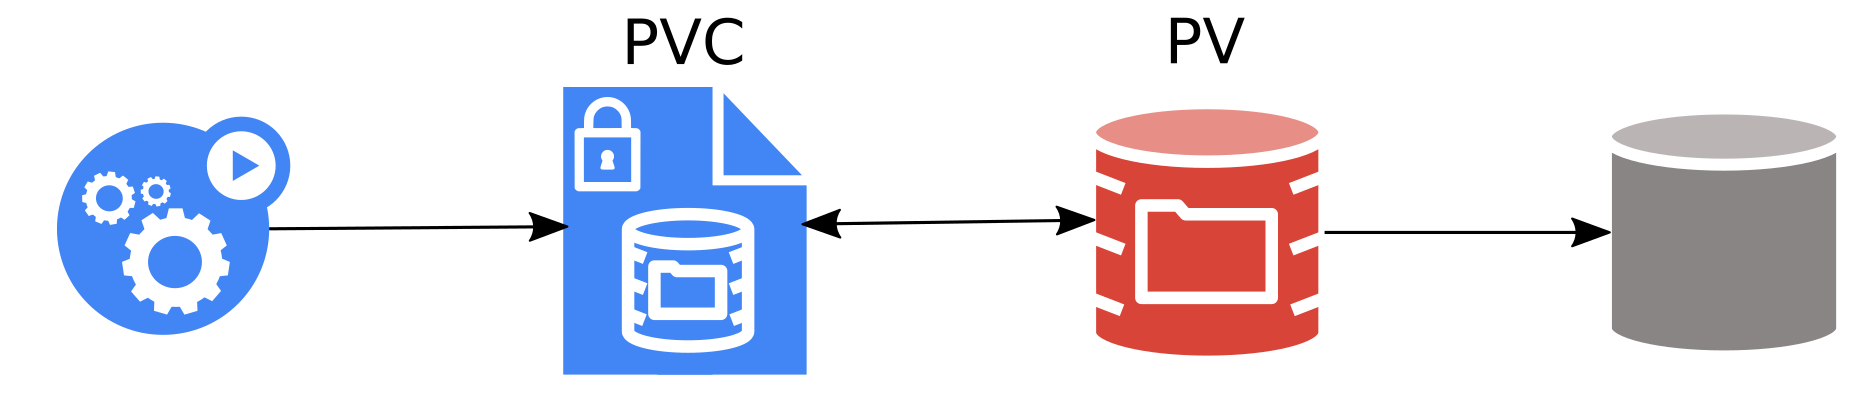
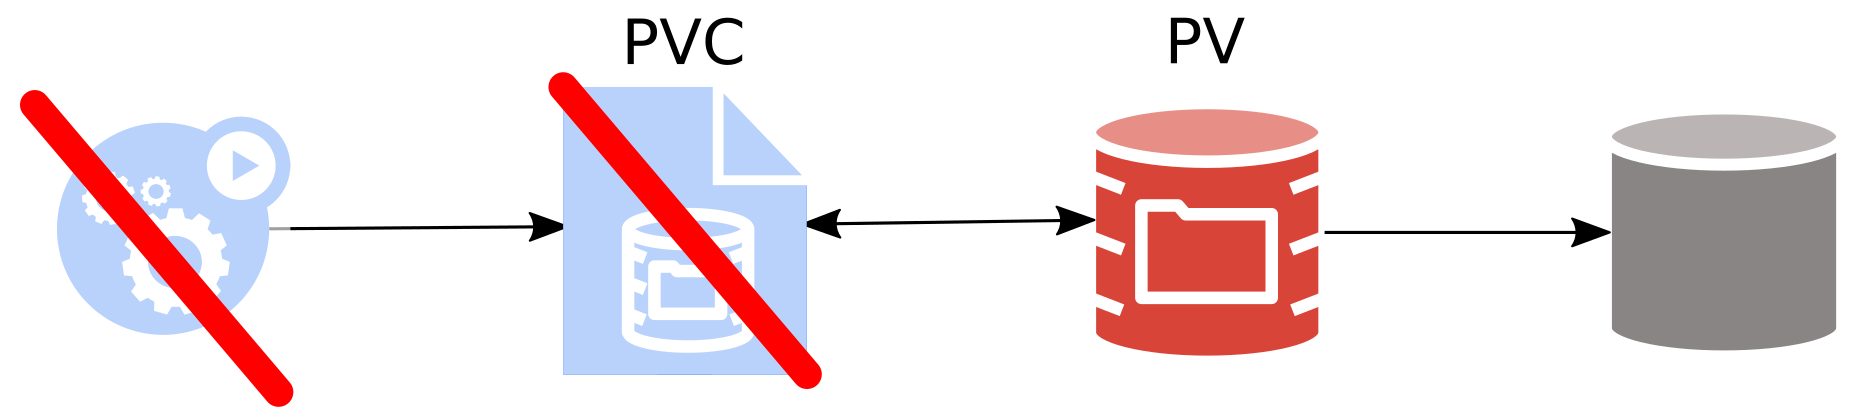
Polish

Changed region(s): [[0.2812, 0.1559, 0.4688, 0.9353], [0.0, 0.2182, 0.1562, 0.9664]]

diff --git a/talk.md b/talk.md
@@ -339,10 +339,16 @@ template: inverse
 # Data on PV wiped after kubelet restart
 ## How we fixed it?
 
-* Verify all `os.RemoveAll` in Kubernetes.
+* Review all `os.RemoveAll` in Kubernetes.
   * Never delete orphan directories across filesystem boundary.
-* Introduce *reconstruction* - scan `/var/lib/kubelet/pods` on kubelet start and reconstruct caches.
-  * Still fixing bugs there :-).
+--
+* Introduce *reconstruction*.
+  * Scan `/var/lib/kubelet` on kubelet start and reconstruct caches.
+      ```shell
+      /var/lib/kubelet/plugins/kubernetes.io/aws-ebs/mounts/aws/us-east-1d/vol-0d832d6d2ddf1b41d    
+      /var/lib/kubelet/pods/34f25c90-959d-4b37-b95c-f87e7fc0975f/   \
+              volumes/kubernetes.io~aws-ebs/pvc-ead62ae2-b9fd-45d2-a6fa-8352a9fbfe3a
+      ```
 
 --
 
@@ -409,6 +415,7 @@ template: inverse
 
 # Volumes are recycled while they are used by pods
 ## Why?
+* Kubernetes has no referential integrity.
 
 .center[
   <img src="protection-before2.png" width="65%"/><br/>
@@ -418,6 +425,7 @@ template: inverse
 
 # Volumes are recycled while they are used by pods
 ## Why?
+* Kubernetes has no referential integrity.
 
 .center[
   <img src="protection-before3.png" width="65%"/><br/>
@@ -487,6 +495,17 @@ template: inverse
 
 .center[
   <img src="protection-after6.png" width="65%"/><br/>
+]
+
+---
+
+# Volumes are recycled while they are used by pods
+## How we fixed it?
+* Using `Finalizers`.
+* StorageInUseProtection admission plugin and controller.
+
+.center[
+  <img src="protection-after7.png" width="65%"/><br/>
 ]
 
 ---
